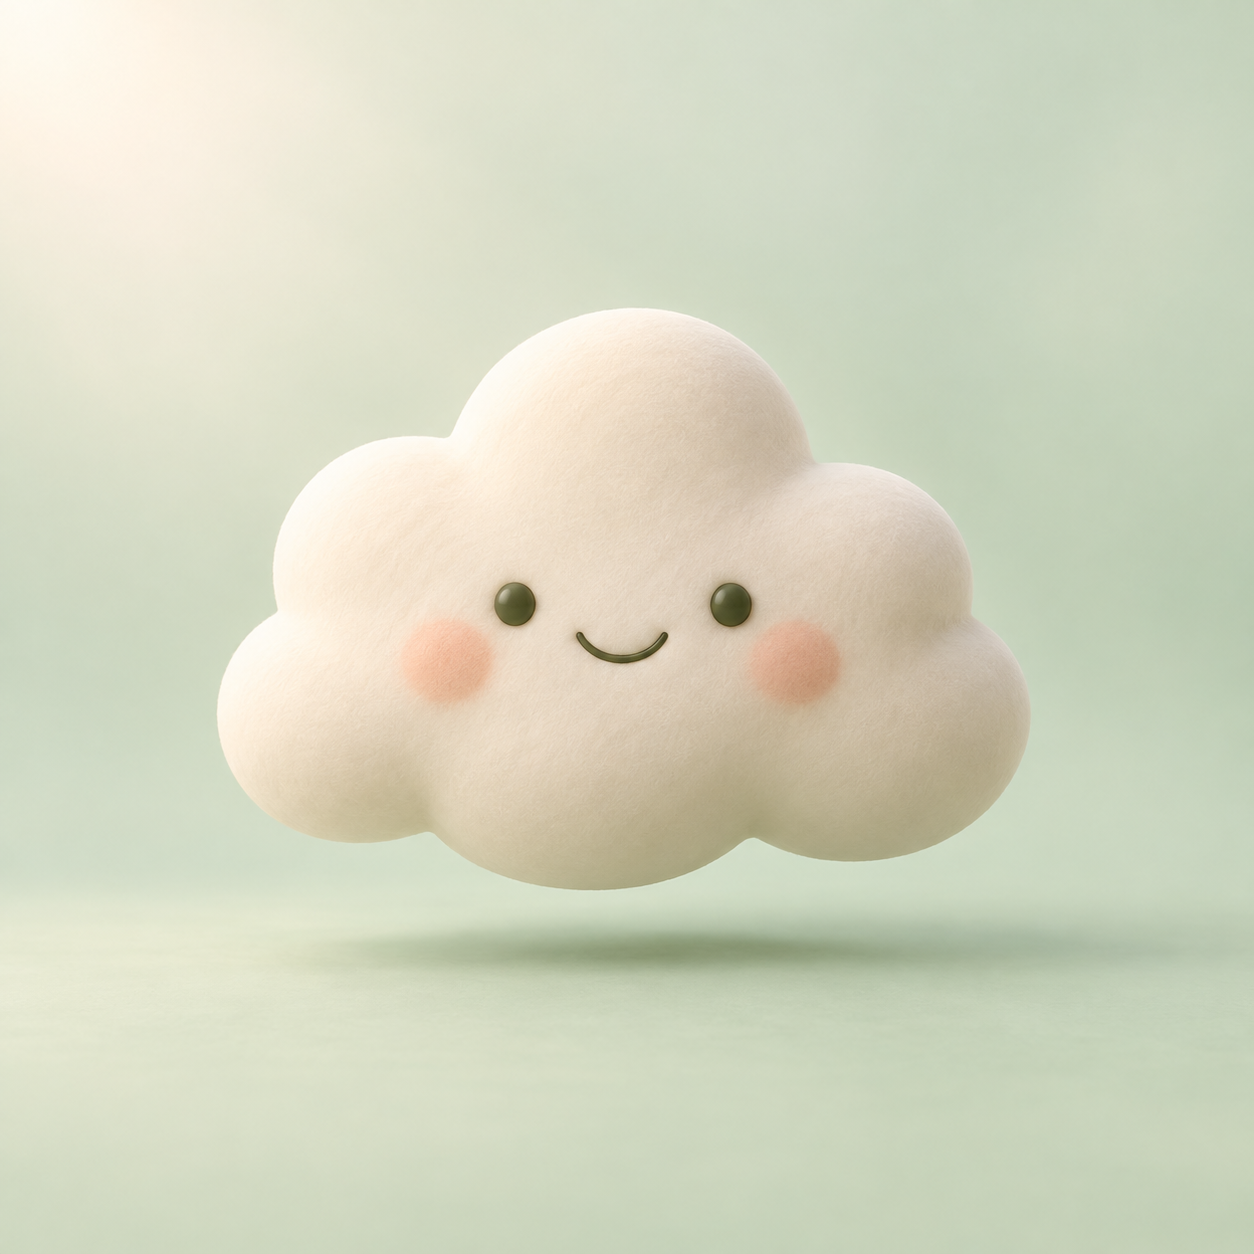
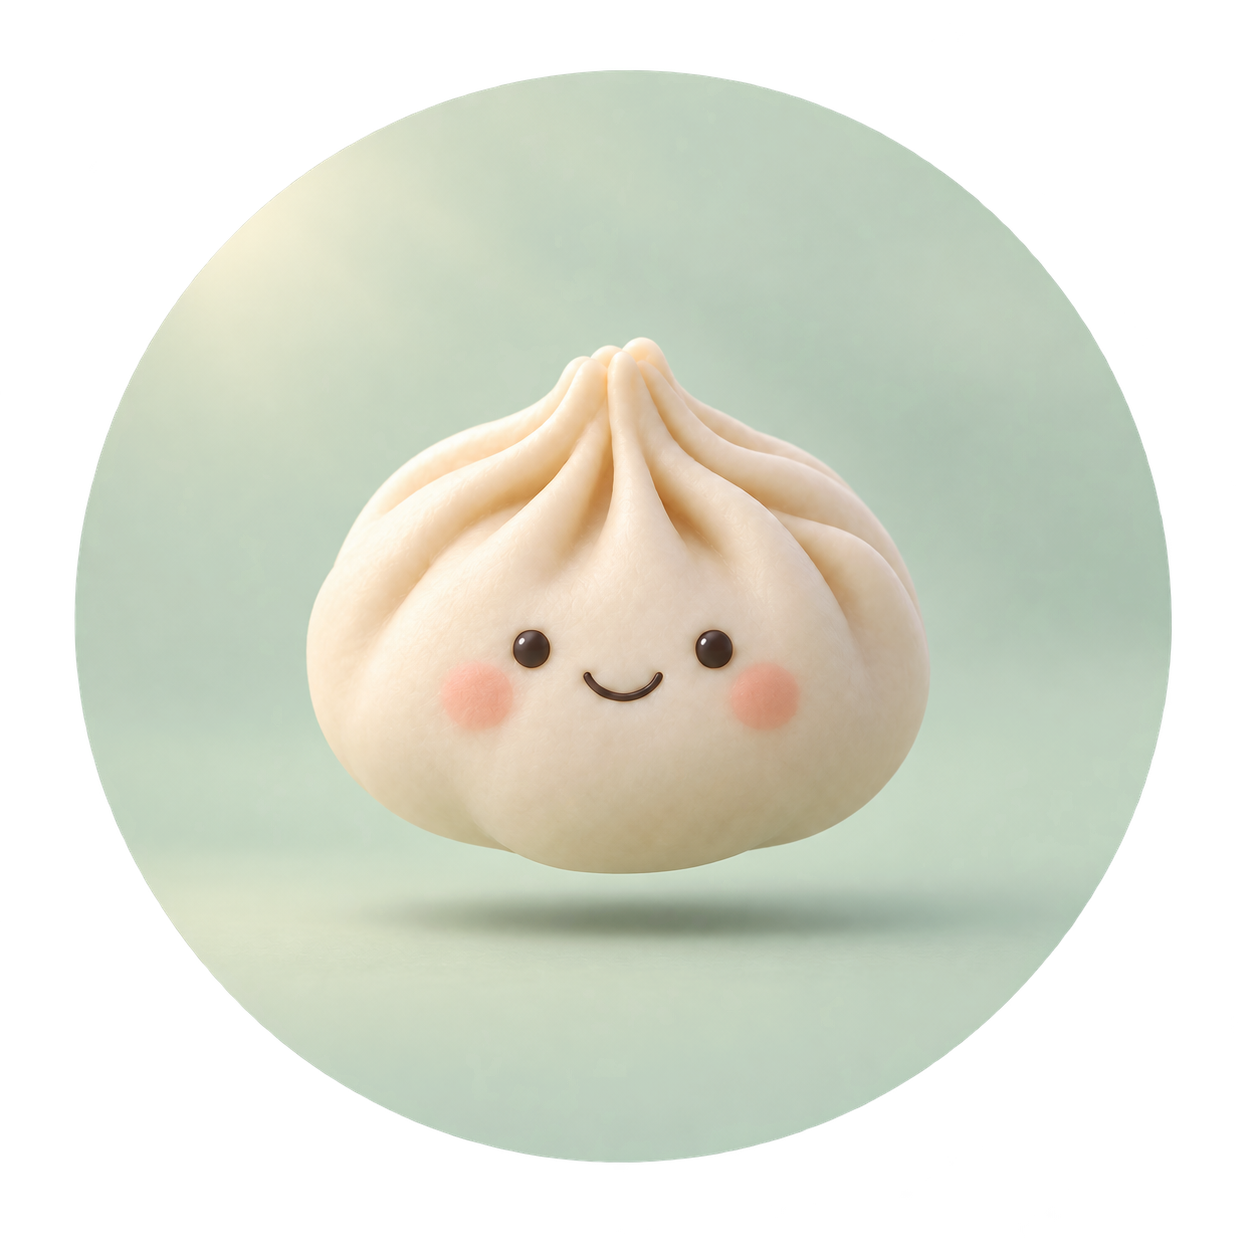
Fix UI problems

diff --git a/app/globals.css b/app/globals.css
@@ -63,7 +63,24 @@ button:not(:disabled), summary { cursor: pointer; }
 :where(a, button, input, textarea, select, summary):focus-visible { outline: 2px solid #325347; outline-offset: 4px; }
 :where(h1, h2, h3, p) { overflow-wrap: anywhere; }
 :where(input, textarea) { caret-color: #325347; }
-.material-symbols-outlined { flex-shrink: 0; }
+/* Google supplies the font file; this class applies it to each icon name. */
+.material-symbols-outlined {
+  display: inline-block;
+  flex-shrink: 0;
+  font-family: "Material Symbols Outlined";
+  font-weight: normal;
+  font-style: normal;
+  font-size: 24px;
+  line-height: 1;
+  letter-spacing: normal;
+  text-transform: none;
+  white-space: nowrap;
+  word-wrap: normal;
+  direction: ltr;
+  font-feature-settings: "liga";
+  -webkit-font-smoothing: antialiased;
+  -moz-osx-font-smoothing: grayscale;
+}
 .skip-link { position: fixed; left: 1rem; top: -5rem; z-index: 100; padding: .75rem 1.25rem; border-radius: 2rem; background: #325347; color: white; }
 .skip-link:focus { top: 1rem; }
 @media (max-width: 767px) {

diff --git a/app/layout.tsx b/app/layout.tsx
@@ -13,7 +13,7 @@ export default function RootLayout({
         {/* eslint-disable-next-line @next/next/no-page-custom-font */}
         <link rel="stylesheet" href="https://fonts.googleapis.com/css2?family=Plus+Jakarta+Sans:wght@300;400;500;600;700&display=swap" />
         {/* eslint-disable-next-line @next/next/no-page-custom-font */}
-        <link rel="stylesheet" href="https://fonts.googleapis.com/css2?family=Material+Symbols+Outlined:opsz,wght,FILL,GRAD@20..48,100..700,0..1,-50..200&display=optional" />
+        <link rel="stylesheet" href="https://fonts.googleapis.com/css2?family=Material+Symbols+Outlined:opsz,wght,FILL,GRAD@20..48,100..700,0..1,-50..200&display=swap" />
       </head>
       <body className="relative isolate flex min-h-dvh flex-col md:flex-row">
         <div aria-hidden="true" className="app-canvas" />

diff --git a/src/components/shared/MomoPortrait.tsx b/src/components/shared/MomoPortrait.tsx
@@ -5,8 +5,8 @@ export function MomoPortrait({ className = "", priority = false, animated = fals
 }) {
   return (
     <div aria-hidden="true" className={`momo-portrait ${animated ? "momo-float" : ""} ${className}`}>
-      <Image alt="" src="/images/momo-clay.png" width={512} height={512} priority={priority}
-        sizes="(max-width: 640px) 208px, 288px" className="h-full w-full object-cover" />
+      <Image alt="" src="/images/momo-dumpling-clay-transparent.png" width={512} height={512} priority={priority}
+        sizes="(max-width: 640px) 208px, 288px" className="h-full w-full scale-[1.16] object-cover" />
     </div>
   );
 }
